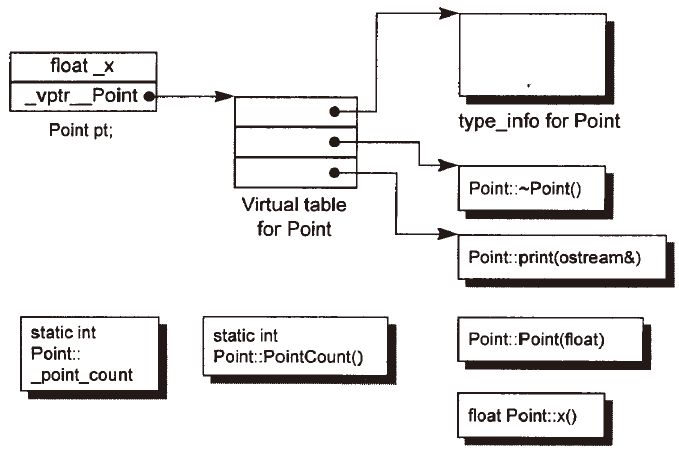
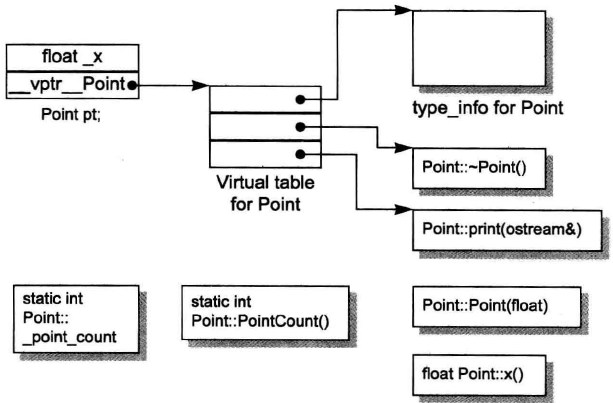
数据对齐

diff --git a/_posts/cpp/对象模型.md b/_posts/cpp/对象模型.md
@@ -23,5 +23,9 @@ C++ 中有两种 class data members（数据成员）
 
 这里的 virtual table（虚函数表）对象模型中的概念如下：
 ## 虚函数表
-也就是 virtual table（vtbl）。如果一个 class 定义中声明有虚函数，则 class 会产生一个相应的表，即虚函数表，用来存放所有的指针，每个指针指向一个 class 中的一个虚函数。没有声明虚函数的类，不会产生这张表，也就没有下一段内容的描述。
-即，虚函数表是 class 级别的概念，而针对每个类对象，都会添加一个指针（vptr），这个指针指向该类的虚函数表。vptr 的设置（setting）和重置（resetting）都由类对象的 constructor、destructor 和 copy assignment 运算符自动完成。
+也就是 virtual table（vtbl），也称虚表，是一个指针组，分别指向类的各个虚函数。如果一个 class 定义中声明有虚函数，则 class 会产生一个相应的表，即虚函数表，用来存放所有的指针，每个指针指向一个 class 中的一个虚函数。没有声明虚函数的类，不会产生这张表，也就没有下一段内容的描述。
+即，虚函数表是 class 级别的概念，只有一个。而针对每个类对象，都会添加一个指针（vptr），这个指针指向该类的这个虚函数表。vptr 的设置（setting）和重置（resetting）都由类对象的 constructor、destructor 和 copy assignment 运算符自动完成。
+{% asset_img 虚表.png "虚表" %}
+
+
+https://blog.csdn.net/lihao21/article/details/50688337

diff --git a/_posts/CS/数据存储.md b/_posts/CS/数据存储.md
@@ -10,3 +10,7 @@ tags: [CS]
 补码：正数的补码是其自身，负数的补码是其反码 + 1。
 _为什么要用补码？_
 为方便计算：负数补码与绝对值的补码（或者说原码）之和等于 0。
+
+# 数据对齐
+（CSAPP）如 C、C++ 里有数据对齐的概念。
+许多计算机系统对基本数据类型的合法地址做出了一些限制，要求某种类型对象的地址必须是某个值 K（通常是 2、4、8）的倍数。这种对齐限制 **简化了处理器和内存系统之间接口的设计**。而无论对齐与否，都不会影响硬件正常工作，但考虑到比如 double 数据，如果不对齐，那么可能需要两次内存才能读取一个完整的 double（因没有对齐而导致每次取读它的一半）。所以对齐操作的主要考虑是对性能上的影响。

diff --git a/_posts/QA/常见问题-cpp.md b/_posts/QA/常见问题-cpp.md
@@ -15,6 +15,9 @@ tags: [cpp, Q&A]
 * 没有初始化栈上的指针，而指针的值一般会是随机数，之后直接开始使用指针。
 etc.
 
+## 空的类大小
+如果一个类 class 为空，或没有数据成员且没有虚函数成员，则 sizeof(class) = 1，这是被编译器安插的一个 char，为了使这个类在内存中被分配一个地址。 
+
 # 复合类型（compound type）
 基于其他类型定义的类型，包括引用、指针等。
 
